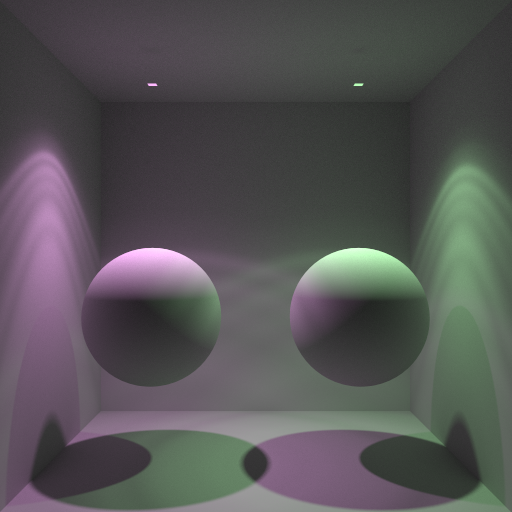
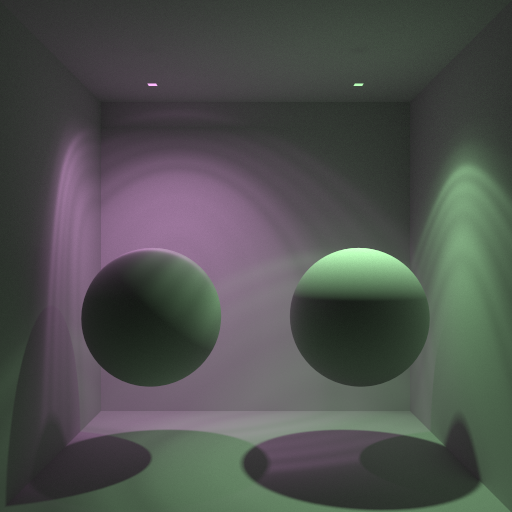
edit

diff --git a/tests_lights.cpp b/tests_lights.cpp
@@ -1489,12 +1489,14 @@ namespace LGHT_TESTS
       distribution.append_attribute(L"data").set_value(L"data/ies/ies_1.ies");
 
       distribution.append_attribute(L"matrix");
-      float samplerMatrix[16] = { 1.2f, 0, 0, 0,
-                                  0, 1.2f, 0, 0,
-                                  0, 0, 1, 0,
-                                  0, 0, 0, 1 };
 
-      HydraXMLHelpers::WriteMatrix4x4(distribution, L"matrix", samplerMatrix);
+      float4x4 matrixRot = rotate4x4X(-45.0f*DEG_TO_RAD);
+      //float samplerMatrix[16] = { 1.2f, 0, 0, 0,
+      //                            0, 1.2f, 0, 0,
+      //                            0, 0, 1, 0,
+      //                            0, 0, 0, 1 };
+
+      HydraXMLHelpers::WriteMatrix4x4(distribution, L"matrix", matrixRot.L());
 
 	    auto sizeNode = lightNode.append_child(L"size");
 		  
